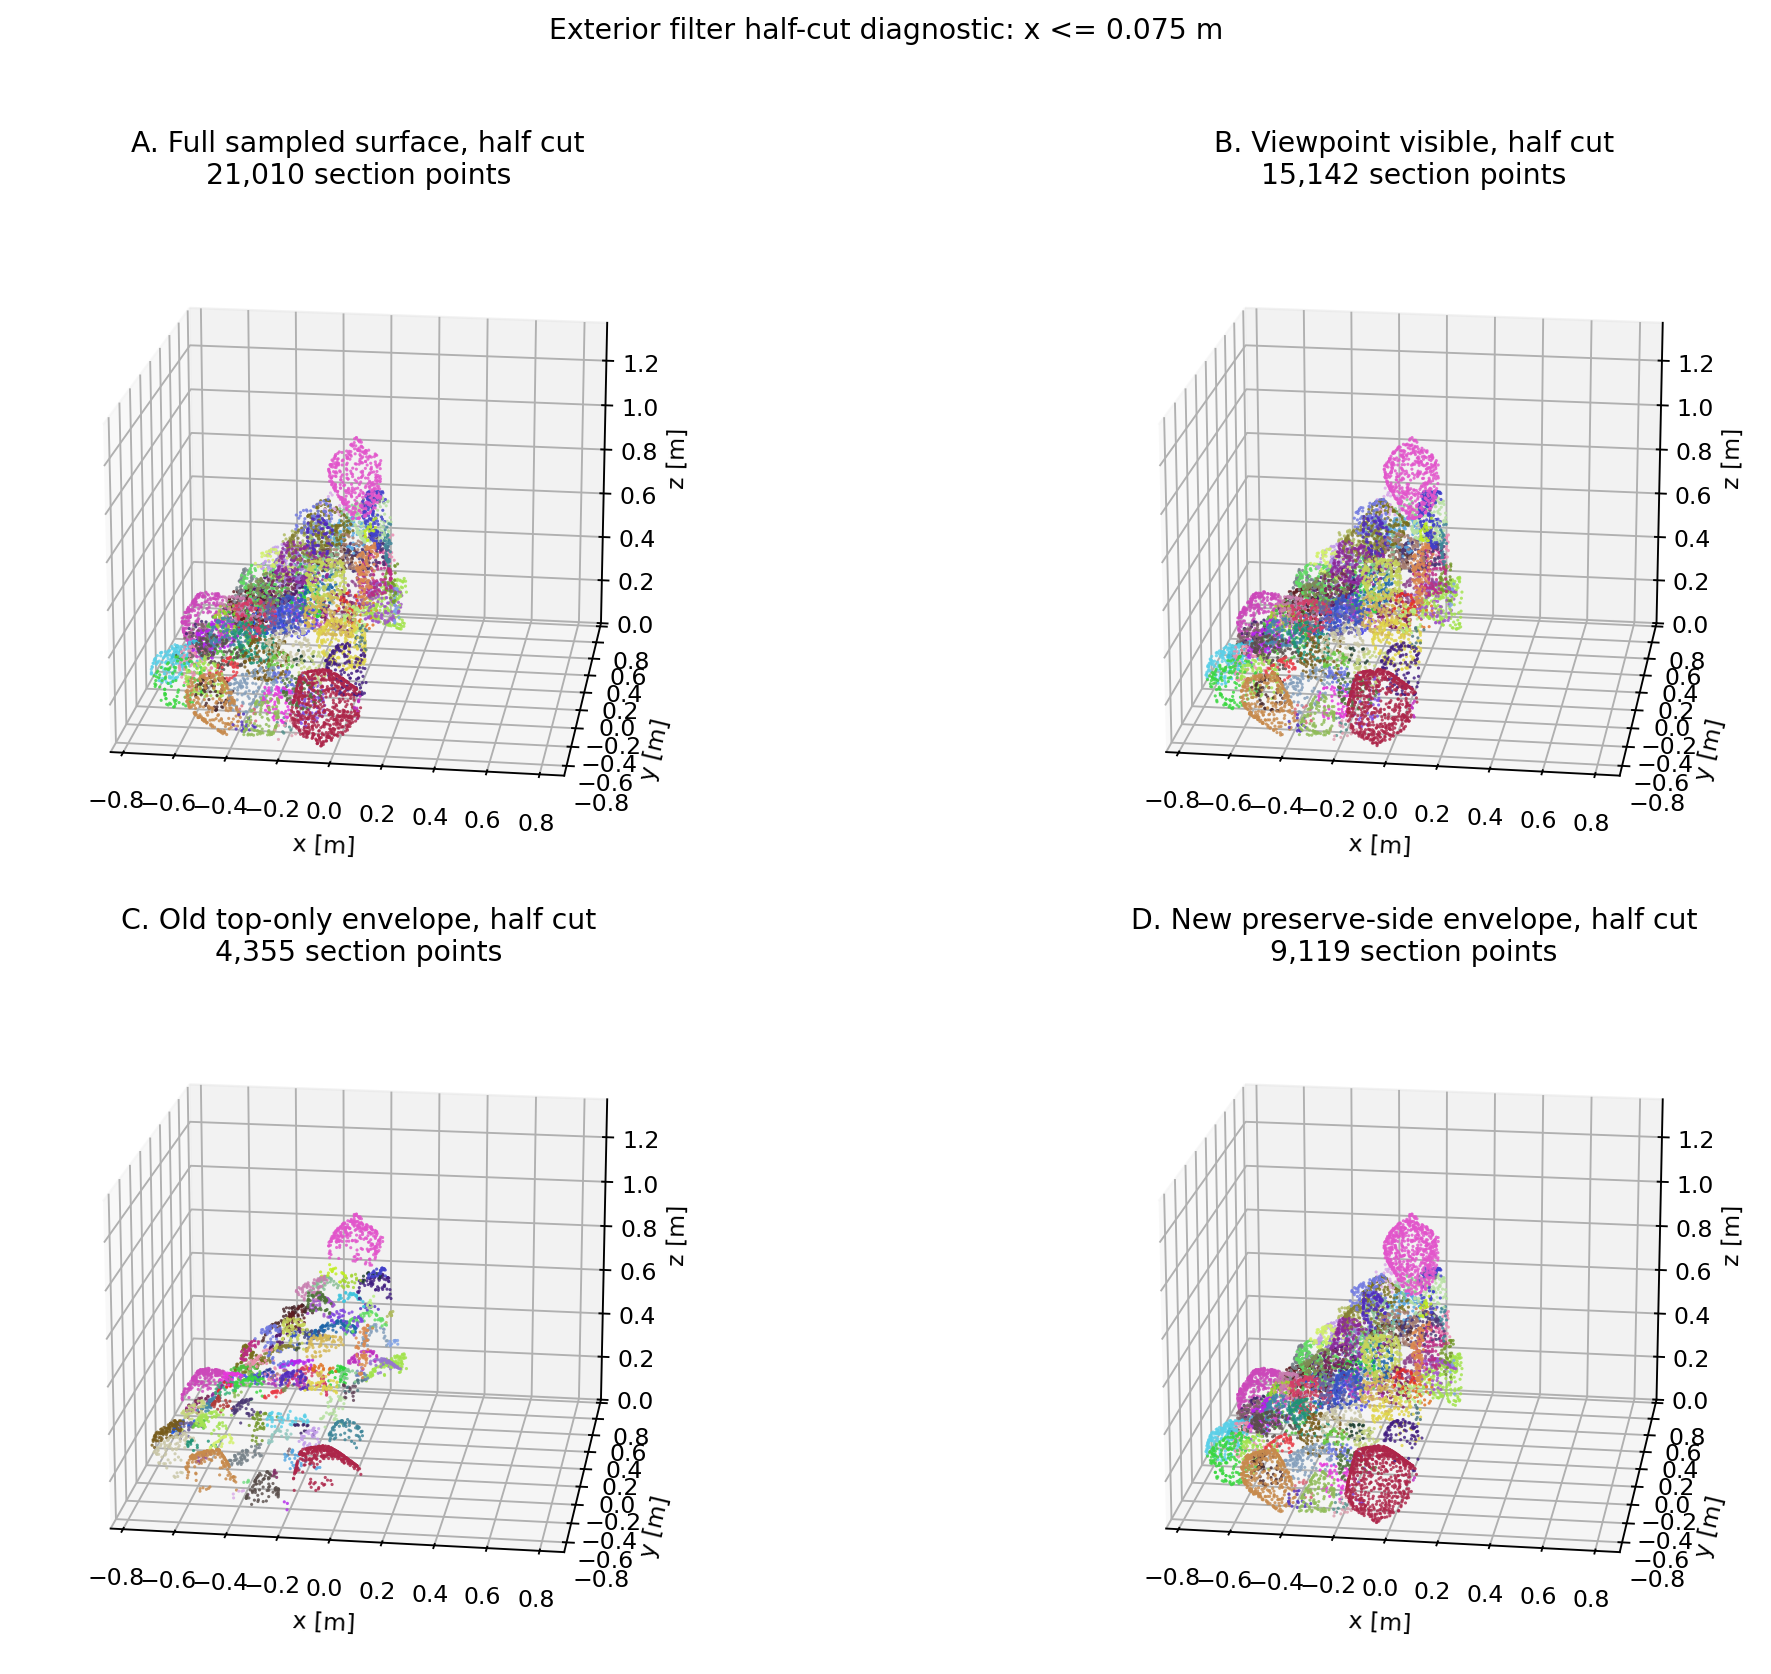
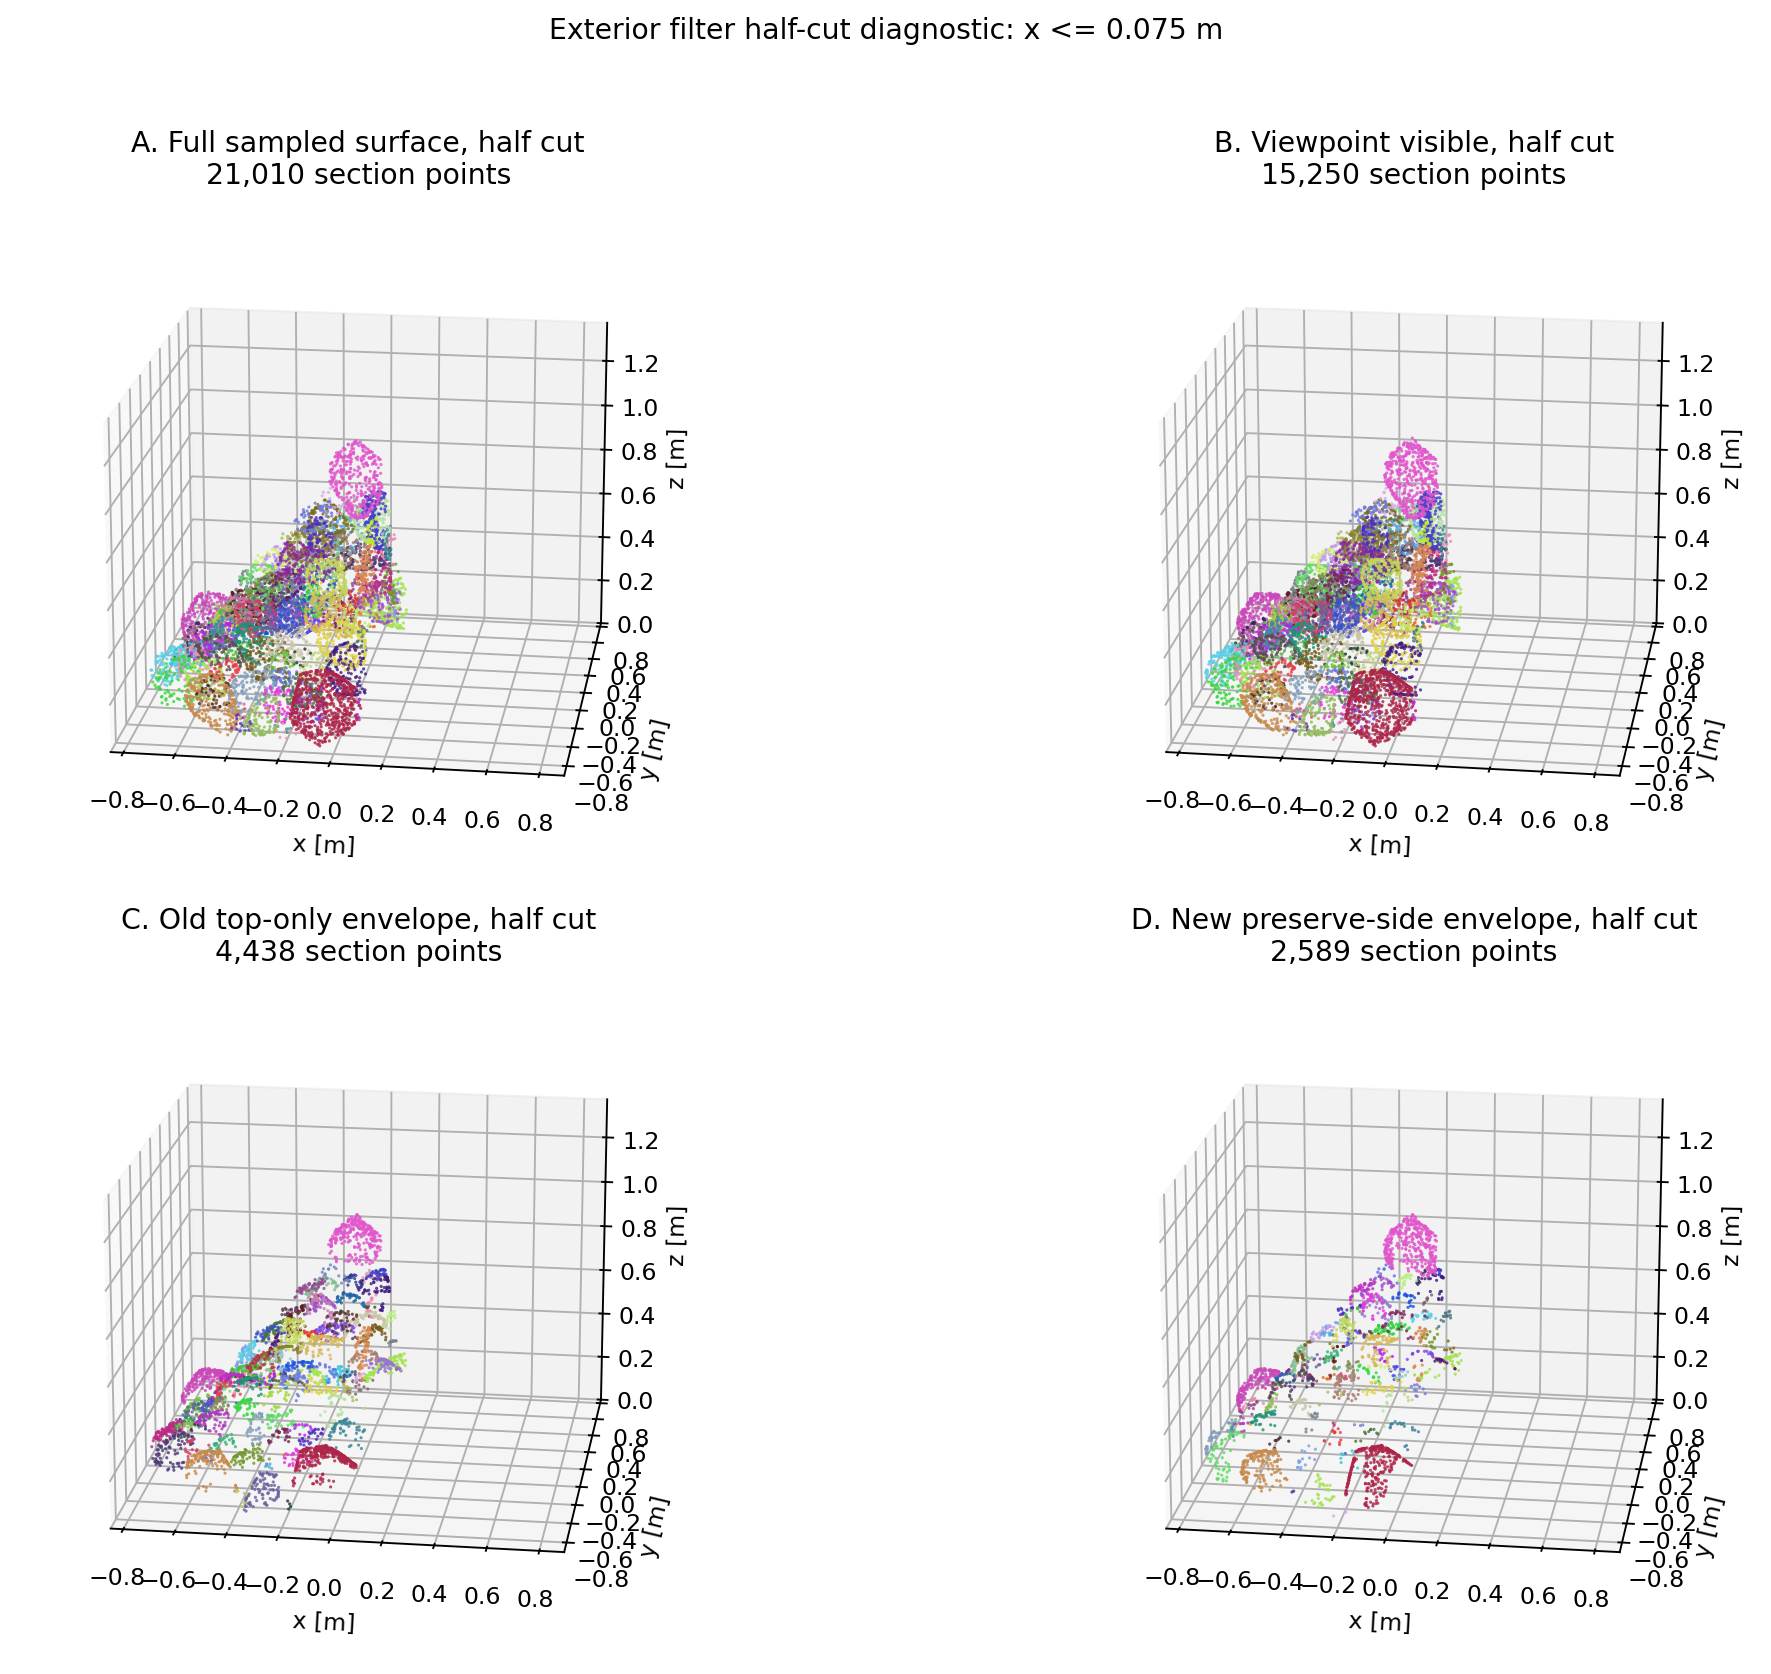
Add depth-buffer exterior section diagnostic

diff --git a/scripts/diagnose_exterior_filter.py b/scripts/diagnose_exterior_filter.py
@@ -60,6 +60,21 @@ def half_cut(points: np.ndarray, labels: np.ndarray, cut_x: float) -> tuple[np.n
     return points[keep], labels[keep]
 
 
+def section_slab(points: np.ndarray, labels: np.ndarray, cut_x: float, half_width: float) -> tuple[np.ndarray, np.ndarray, np.ndarray]:
+    keep = np.abs(points[:, 0] - cut_x) <= half_width
+    return points[keep], labels[keep], np.flatnonzero(keep)
+
+
+def set_matched_2d_section_axes(ax, full_points: np.ndarray) -> None:
+    ax.set_xlabel("y [m]")
+    ax.set_ylabel("z [m]")
+    y = full_points[:, 1]
+    z = full_points[:, 2]
+    ax.set_xlim(float(y.min()) - 0.03, float(y.max()) + 0.03)
+    ax.set_ylim(max(0.0, float(z.min()) - 0.02), float(z.max()) + 0.08)
+    ax.grid(True, color="#D8DEE8", linewidth=0.8, alpha=0.8)
+
+
 def summarize(name: str, points: np.ndarray, labels: np.ndarray, full_labels: np.ndarray) -> dict:
     counts = pd.Series(labels).value_counts()
     full_counts = pd.Series(full_labels).value_counts()
@@ -86,6 +101,7 @@ def main() -> None:
     parser.add_argument("--total-surface-points", type=int, default=42000)
     parser.add_argument("--dem-preset", choices=sorted(DEM_PRESETS), default="noboundary_axis_clump_150_fast")
     parser.add_argument("--max-plot-points", type=int, default=9000)
+    parser.add_argument("--section-half-width", type=float, default=0.08)
     args = parser.parse_args()
 
     OUT_DIR.mkdir(parents=True, exist_ok=True)
@@ -126,6 +142,19 @@ def main() -> None:
         full_labels,
         viewpoints,
         angular_resolution_deg=0.24,
+        range_tolerance_m=0.012,
+        occlusion_neighbor_bins=2,
+        height_envelope_grid_m=0.035,
+        height_envelope_tolerance_m=0.030,
+        height_envelope_mode="preserve_side_visible",
+    )
+    exterior_points, exterior_labels, exterior_source_idx = exterior_points_from_viewpoints(
+        full_points,
+        full_labels,
+        viewpoints,
+        angular_resolution_deg=0.24,
+        range_tolerance_m=0.012,
+        occlusion_neighbor_bins=2,
         height_envelope_grid_m=0.035,
         height_envelope_tolerance_m=0.030,
         height_envelope_mode="preserve_side_visible",
@@ -136,7 +165,7 @@ def main() -> None:
             summarize("full sampled surface", full_points, full_labels, full_labels),
             summarize("viewpoint visible only", view_points, view_labels, full_labels),
             summarize("old top-only envelope", old_points, old_labels, full_labels),
-            summarize("new preserve-side envelope", new_points, new_labels, full_labels),
+            summarize("new depth-buffer exterior", new_points, new_labels, full_labels),
         ]
     )
     summary_path = TABLE_DIR / f"exterior_filter_diagnostic_scene{args.scene_id:03d}.csv"
@@ -146,7 +175,7 @@ def main() -> None:
         ("A. Full sampled surface", full_points, full_labels),
         ("B. Viewpoint visible", view_points, view_labels),
         ("C. Old top-only envelope", old_points, old_labels),
-        ("D. New preserve-side envelope", new_points, new_labels),
+        ("D. New depth-buffer exterior", new_points, new_labels),
     ]
     fig = plt.figure(figsize=(14, 10), dpi=170)
     for i, (title, points, labels) in enumerate(panels, start=1):
@@ -166,7 +195,7 @@ def main() -> None:
         ("A. Full sampled surface, half cut", full_points, full_labels),
         ("B. Viewpoint visible, half cut", view_points, view_labels),
         ("C. Old top-only envelope, half cut", old_points, old_labels),
-        ("D. New preserve-side envelope, half cut", new_points, new_labels),
+        ("D. New depth-buffer exterior, half cut", new_points, new_labels),
     ]
     fig = plt.figure(figsize=(14, 10), dpi=170)
     for i, (title, points, labels) in enumerate(section_panels, start=1):
@@ -183,9 +212,80 @@ def main() -> None:
     fig.savefig(section_fig_path, bbox_inches="tight")
     plt.close(fig)
 
+    retained_source_mask = np.zeros(len(full_points), dtype=bool)
+    retained_source_mask[exterior_source_idx] = True
+    full_sec, full_sec_labels, full_sec_idx = section_slab(full_points, full_labels, cut_x, args.section_half_width)
+    exterior_sec, exterior_sec_labels, _ = section_slab(exterior_points, exterior_labels, cut_x, args.section_half_width)
+    retained_sec = retained_source_mask[full_sec_idx]
+
+    fig = plt.figure(figsize=(12, 7.8), dpi=170)
+    ax_full = fig.add_subplot(2, 2, 1, projection="3d")
+    pts, labs = downsample(full_points, full_labels, args.max_plot_points, seed=201)
+    ax_full.scatter(pts[:, 0], pts[:, 1], pts[:, 2], c=label_colors(labs), s=1.1, alpha=0.60, linewidths=0)
+    ax_full.set_title("Original full labelled point cloud")
+    set_equal_3d(ax_full, full_points)
+
+    ax_ext = fig.add_subplot(2, 2, 2, projection="3d")
+    pts, labs = downsample(exterior_points, exterior_labels, args.max_plot_points, seed=202)
+    ax_ext.scatter(pts[:, 0], pts[:, 1], pts[:, 2], c=label_colors(labs), s=1.3, alpha=0.78, linewidths=0)
+    ax_ext.set_title("Exterior-only scan after occlusion filtering")
+    set_equal_3d(ax_ext, full_points)
+
+    ax_before = fig.add_subplot(2, 2, 3)
+    removed = ~retained_sec
+    ax_before.scatter(
+        full_sec[removed, 1],
+        full_sec[removed, 2],
+        s=1.6,
+        c="#D94A44",
+        alpha=0.58,
+        linewidths=0,
+        label="removed hidden/interior source samples",
+    )
+    ax_before.scatter(
+        full_sec[retained_sec, 1],
+        full_sec[retained_sec, 2],
+        s=2.0,
+        c="#4C5967",
+        alpha=0.62,
+        linewidths=0,
+        label="retained exterior samples",
+    )
+    ax_before.set_title(f"Half-cut y-z section before filtering (|x-{cut_x:.3f}| <= {args.section_half_width:.2f} m)")
+    ax_before.legend(loc="upper right", fontsize=7, frameon=True)
+    set_matched_2d_section_axes(ax_before, full_points)
+
+    ax_after = fig.add_subplot(2, 2, 4)
+    ax_after.scatter(
+        exterior_sec[:, 1],
+        exterior_sec[:, 2],
+        s=2.3,
+        c=label_colors(exterior_sec_labels),
+        alpha=0.82,
+        linewidths=0,
+    )
+    ax_after.set_title("Same half-cut section after exterior-only filtering")
+    set_matched_2d_section_axes(ax_after, full_points)
+
+    retained_pct = 100.0 * len(exterior_points) / max(len(full_points), 1)
+    fig.text(
+        0.5,
+        0.025,
+        f"All panels use matched metric scales. Bottom sections verify hidden/interior source samples are removed "
+        f"({retained_pct:.1f}% retained overall).",
+        ha="center",
+        fontsize=9,
+        color="#5A6470",
+    )
+    fig.tight_layout(rect=(0, 0.05, 1, 1))
+    section_scan_fig_path = OUT_DIR / f"exterior_filter_section_scan_scene{args.scene_id:03d}.png"
+    fig.savefig(section_scan_fig_path, bbox_inches="tight")
+    plt.close(fig)
+
     print(summary.to_string(index=False))
     print(fig_path)
     print(section_fig_path)
+    print(section_scan_fig_path)
     print(summary_path)
 
 

diff --git a/src/data/exterior_filter.py b/src/data/exterior_filter.py
@@ -51,6 +51,7 @@ def exterior_points_from_viewpoints(
     viewpoint_xyz_list: np.ndarray,
     angular_resolution_deg: float = 0.22,
     range_tolerance_m: float = 0.0,
+    occlusion_neighbor_bins: int = 0,
     height_envelope_grid_m: float | None = 0.035,
     height_envelope_tolerance_m: float = 0.030,
     height_envelope_mode: str = "preserve_side_visible",
@@ -58,9 +59,13 @@ def exterior_points_from_viewpoints(
     """Keep points visible from at least one exterior viewpoint.
 
     For each viewpoint, points are assigned to angular azimuth/elevation bins.
-    The closest point in each bin is retained. If ``range_tolerance_m`` is
-    positive, points within that range behind the nearest point in the same bin
-    are also retained, approximating finite scan footprint thickness.
+    The closest point in each bin is retained. ``occlusion_neighbor_bins`` makes
+    this a small depth-buffer neighbourhood instead of a single exact bin: a
+    point is hidden if a nearer point exists in its own or neighbouring angular
+    bins. This closes sparse point-cloud pinholes that otherwise let interior
+    fragment surfaces survive the visibility pass. If ``range_tolerance_m`` is
+    positive, points within that range behind the local nearest surface are also
+    retained, approximating finite scan footprint thickness.
 
     The previous global XY height-envelope cleanup was too aggressive for
     side-visible pile surfaces: it retained only the highest point in each plan
@@ -93,18 +98,36 @@ def exterior_points_from_viewpoints(
         order = np.lexsort((ranges, key))
         sorted_key = key[order]
         keep_for_view = np.zeros(len(points), dtype=bool)
-        if range_tolerance_m <= 0:
+        neighbor_bins = max(0, int(occlusion_neighbor_bins))
+        if range_tolerance_m <= 0 and neighbor_bins == 0:
             first = np.r_[True, sorted_key[1:] != sorted_key[:-1]]
             keep_for_view[order[first]] = True
         else:
+            min_range_by_bin: dict[tuple[int, int], float] = {}
             start = 0
             while start < len(order):
                 end = start + 1
                 while end < len(order) and sorted_key[end] == sorted_key[start]:
                     end += 1
                 idx = order[start:end]
-                r_min = float(ranges[idx].min())
-                keep_for_view[idx[ranges[idx] <= r_min + float(range_tolerance_m)]] = True
+                bin_key = (int(az_bin[idx[0]]), int(el_bin[idx[0]]))
+                min_range_by_bin[bin_key] = float(ranges[idx].min())
+                start = end
+            start = 0
+            while start < len(order):
+                end = start + 1
+                while end < len(order) and sorted_key[end] == sorted_key[start]:
+                    end += 1
+                idx = order[start:end]
+                az0 = int(az_bin[idx[0]])
+                el0 = int(el_bin[idx[0]])
+                local_min = np.inf
+                for daz in range(-neighbor_bins, neighbor_bins + 1):
+                    for dele in range(-neighbor_bins, neighbor_bins + 1):
+                        value = min_range_by_bin.get((az0 + daz, el0 + dele))
+                        if value is not None and value < local_min:
+                            local_min = value
+                keep_for_view[idx[ranges[idx] <= local_min + float(range_tolerance_m)]] = True
                 start = end
 
         visible_mask |= keep_for_view

diff --git a/scripts/regenerate_multi_scene_dataset.py b/scripts/regenerate_multi_scene_dataset.py
@@ -32,7 +32,7 @@ TABLE_DIR = PROJECT_ROOT / "outputs" / "tables"
 N_FRAGMENTS_PER_SCENE = 220
 TOTAL_SURFACE_POINTS = 42_000
 BASE_SEED = 20260525
-FILTER_VERSION = "angular_nearest_plus_xy_height_envelope_preserve_side_visible"
+FILTER_VERSION = "angular_depthbuffer_plus_xy_height_envelope_preserve_side_visible"
 
 
 DEM_PRESETS = {
@@ -419,7 +419,8 @@ def generate_scene(
         full_labels,
         viewpoints,
         angular_resolution_deg=0.24,
-        range_tolerance_m=0.0,
+        range_tolerance_m=0.012,
+        occlusion_neighbor_bins=2,
         height_envelope_grid_m=0.035,
         height_envelope_tolerance_m=0.030,
         height_envelope_mode="preserve_side_visible",
@@ -462,7 +463,8 @@ def generate_scene(
         cone_base_radius_m=np.array([cone_geometry["base_radius_m"]]),
         cone_height_m=np.array([cone_geometry["pile_height_m"]]),
         angular_resolution_deg=np.array([0.24]),
-        range_tolerance_m=np.array([0.0]),
+        range_tolerance_m=np.array([0.012]),
+        occlusion_neighbor_bins=np.array([2]),
         height_envelope_grid_m=np.array([0.035]),
         height_envelope_tolerance_m=np.array([0.030]),
         height_envelope_mode=np.array(["preserve_side_visible"]),

diff --git a/scripts/retrain_and_evaluate_edgeconv.py b/scripts/retrain_and_evaluate_edgeconv.py
@@ -41,6 +41,7 @@ POSTPROCESS_KWARGS = {
 ACCEPTED_SCAN_FILTER_VERSIONS = {
     "angular_nearest_plus_xy_height_envelope",
     "angular_nearest_plus_xy_height_envelope_preserve_side_visible",
+    "angular_depthbuffer_plus_xy_height_envelope_preserve_side_visible",
 }
 
 ABSORB_KWARGS = {
@@ -265,7 +266,7 @@ def train_model(args: argparse.Namespace, device: torch.device, train_rows: pd.D
             "model_state_dict": best_state,
             "best_epoch": best_epoch,
             "best_val_ap": best_val_ap,
-            "scan_filter_version": "angular_nearest_plus_xy_height_envelope_preserve_side_visible",
+            "scan_filter_version": "angular_depthbuffer_plus_xy_height_envelope_preserve_side_visible",
             "training_args": training_args,
         },
         OUT_MODELS / "edgeconv_affinity.pt",
@@ -588,7 +589,7 @@ def main() -> None:
     write_test_error_histogram(test_results, selected_variant)
 
     metadata = {
-        "scan_filter_version": "angular_nearest_plus_xy_height_envelope_preserve_side_visible",
+        "scan_filter_version": "angular_depthbuffer_plus_xy_height_envelope_preserve_side_visible",
         "selected_variant": selected_variant,
         "selected_threshold": selected_threshold,
         "selected_bridge_probability": selected_bridge_probability,

diff --git a/data/README.md b/data/README.md
@@ -8,15 +8,15 @@ large. The committed files include:
   `results/tables/dem_noboundary_relax150_100scene_index.csv`
 - training history, validation threshold summary, and held-out test summary
 - scripts needed to regenerate scenes and retrain the EdgeConv model
-- an exterior-filter diagnostic:
-  `results/figures/exterior_filter_diagnostic_scene000.png` and
+- exterior-filter diagnostics:
+  `results/figures/exterior_filter_diagnostic_scene000.png`,
+  `results/figures/exterior_filter_section_scan_scene000.png`, and
   `results/tables/exterior_filter_diagnostic_scene000.csv`
 
-The exterior filter now preserves points seen from side viewpoints before
-applying the plan-view height-envelope cleanup. The previous top-only envelope
-could remove physically visible slope/side points and even drop visible
-fragments. Newly generated scenes are marked with
-`angular_nearest_plus_xy_height_envelope_preserve_side_visible`.
+The exterior filter now uses a small angular depth-buffer neighbourhood to close
+sparse point-cloud pinholes that can otherwise retain hidden/interior fragment
+surfaces. Newly generated scenes are marked with
+`angular_depthbuffer_plus_xy_height_envelope_preserve_side_visible`.
 
 To regenerate the dataset, place or generate the Synthetic_Rockpile fragment
 catalog and set the input paths if they differ from the author's workstation:

diff --git a/README.md b/README.md
@@ -69,7 +69,8 @@ fragmentation monitoring system.
 ## Exterior Filter Update
 
 The exterior scan filter was updated after diagnosing that the previous global
-top-envelope cleanup removed visible side/slope points. The new
-`preserve_side_visible` mode keeps points seen from side viewpoints and applies
-the height-envelope cleanup only as an overhead/interior safeguard. See
-`results/figures/exterior_filter_diagnostic_scene000.png` for the comparison.
+top-envelope cleanup removed visible side/slope points while sparse angular
+visibility bins could still leak hidden interior points. The new depth-buffer
+visibility pass checks neighbouring angular bins to close pinholes, then keeps a
+thin exterior shell. See `results/figures/exterior_filter_section_scan_scene000.png`
+for the photogrammetry-style half-section diagnostic.